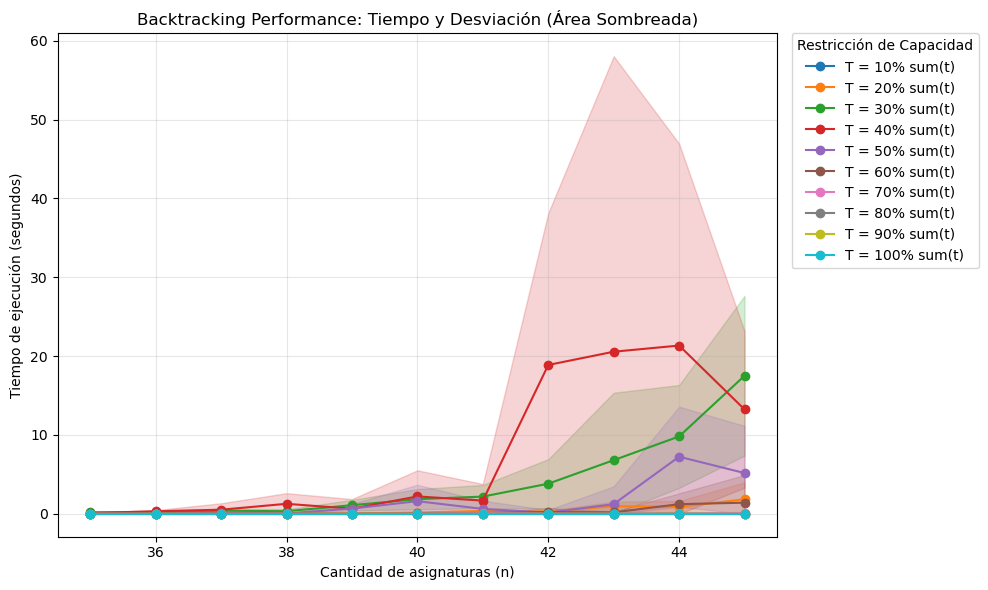
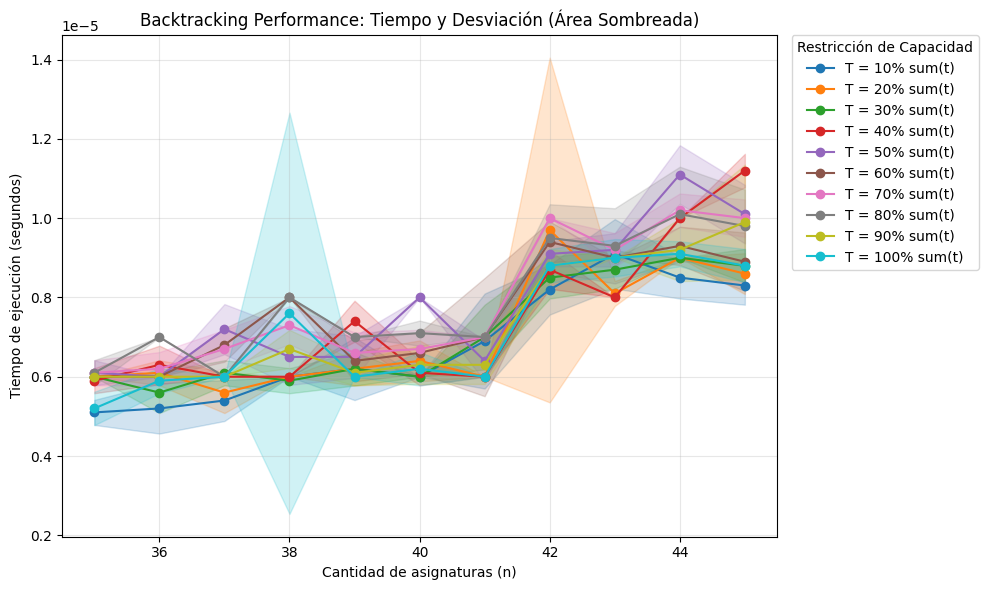
Improve BT pruning, add tests and update graphs
Add an upper-bound pruning heuristic to Backtracking (perf_BT.c) to cut branches early and print max value + selected items. Add a new check.c utility to compare BT vs DP on random instances and validate correctness. Update DeviationBT.py to focus performance runs on much larger N values. Add new performance graphs (performance_BT_DeviationFinal.png, performance_NaivePruning.png) and remove the obsolete performance_TrulyNaiveTest.png.

diff --git a/isolate_testing/check.c b/isolate_testing/check.c
@@ -2,11 +2,11 @@
 #define max(a,b) (((a) > (b)) ? (a) : (b))
 #endif
 
-#include <stdio.h>
-#include <stdlib.h>
-#include <time.h>
-#include <float.h>
-#include <math.h>
+#include    <stdlib.h>
+#include    <stdio.h>
+#include    <time.h>
+#include    <float.h>
+#include    <math.h>
 
 typedef struct Tema {
     int tiempo;
@@ -126,43 +126,77 @@ int *BT_Solve(int *t, int *p, int n, int T, int *max_value, int *size){
     return ans;
 }
 
+int *DP_Solve(int *t, int*p, int n, int T, int *max_value, int *size) {
+    int **dp = (int **)malloc((n + 1) * sizeof(int *));
+    for (int i = 0; i <= n; i++) {
+        dp[i] = (int *)malloc((T + 1) * sizeof(int));
+    }
+
+    for (int i = 0; i <= n; i++) {
+        for (int j = 0; j <= T; j++) {
+            if (i == 0) {
+                dp[i][j] = 0;
+            } else if (j == 0) {
+                dp[i][j] = 0;
+            } else if (t[i - 1] > j) {
+                dp[i][j] = dp[i - 1][j];
+            } else {
+                dp[i][j] = max(dp[i - 1][j], dp[i - 1][j - t[i - 1]] + p[i - 1]);
+            }
+        }
+    }
+
+    *max_value = dp[n][T];
+
+    int *sol = (int *)calloc(n, sizeof(int));
+    for (int i = n, j = T; i > 0 && j > 0; i--) {
+        if (dp[i][j] != dp[i - 1][j]) {
+            sol[i - 1] = 1;
+            j -= t[i - 1];
+            (*size)++;
+        }
+    }
+
+    for (int i = 0; i <= n; i++) {
+        free(dp[i]);
+    }
+    free(dp);
+
+    int *ans = (int *)malloc((*size) * sizeof(int));
+    for (int i = 0, j = 0; i < n; i++) {
+        if (sol[i] == 1) {
+            ans[j++] = i + 1;
+        }
+    }
+
+    return ans;
+}
+
 int main(int argc, char *argv[]) {
+    int n = atoi(argv[1]); // Número de temas
+    int T_mult = atoi(argv[2]); // Tiempo total disponible
 
-    srand(time(NULL));
-
-    struct timespec start, end;
-
-    int n = atoi(argv[1]);
-    int T_mult = atoi(argv[2]);
-
-    int *t = random_array(n, 1, 10);
-    int *p = random_array(n, 1, 10);
+    int *t = random_array(n, 1, 20); // Tiempos aleatorios entre 1 y 20
+    int *p = random_array(n, 1, 100); // Puntajes aleatorios entre 1 y 100
 
     int T = 0;
     for (int i = 0; i < n; i++) {
         T += t[i];
     }
-    T = (T * T_mult) / 100;
 
-    int *max_valueBT = (int *)calloc(1, sizeof(int));
-    int *sizeBT = (int *)calloc(1, sizeof(int));
+    T = (T * T_mult) / 100; // Ajustar el tiempo total según el multiplicador
 
-    timespec_get(&start, TIME_UTC);
-    int *final_BT = BT_Solve(t, p, n, T, max_valueBT, sizeBT);
-    timespec_get(&end, TIME_UTC);
-    double time_BT = (end.tv_sec - start.tv_sec) + (end.tv_nsec - start.tv_nsec) / 1e9;
-    printf("Execution time: %f seconds\n", time_BT);
+    int max_valueBT = 0, sizeBT = 0;
+    int max_valueDP = 0, sizeDP = 0;
 
-    printf("Max value: %d\n", *max_valueBT);
-    printf("Selected items: ");
-    for (int i = 0; i < *sizeBT; i++) {
-        printf("%d ", final_BT[i]);
+    int* solution_BT = BT_Solve(t, p, n, T, &max_valueBT, &sizeBT);
+    int* solution_DP = DP_Solve(t, p, n, T, &max_valueDP, &sizeDP);
+
+    if (max_valueBT != max_valueDP) {
+        printf("Error: Los valores máximos no coinciden. BT: %d, DP: %d\n", max_valueBT, max_valueDP);
+    } else {
+        printf("Éxito: Los valores máximos coinciden. Valor máximo: %d\n", max_valueBT);
     }
-    printf("\n");
-    
-    free(t);
-    free(p);
-    free(max_valueBT);
-    free(sizeBT);
-    free(final_BT);
+
+    return 0;
 }

diff --git a/isolate_testing/DeviationBT.py b/isolate_testing/DeviationBT.py
@@ -9,7 +9,7 @@ import numpy as np # Importante para graficar las áreas sombreadas
 SOURCE_FILE = "perf_BT.c"
 EXECUTABLE = "./test_backtracking"
 
-N_VALUES = [45, 46, 47, 48, 49, 50, 51, 52, 53, 54, 55] # Ajustado para enfocarnos en N más grandes
+N_VALUES = [100, 150, 200, 250, 300, 350, 400, 450, 500, 550, 600, 650, 700] # Ajustado para enfocarnos en N más grandes
 T_MULTIPLIERS = [10, 20, 30, 40, 50, 60, 70, 80, 90, 100]
 NUM_RUNS = 10 
 
